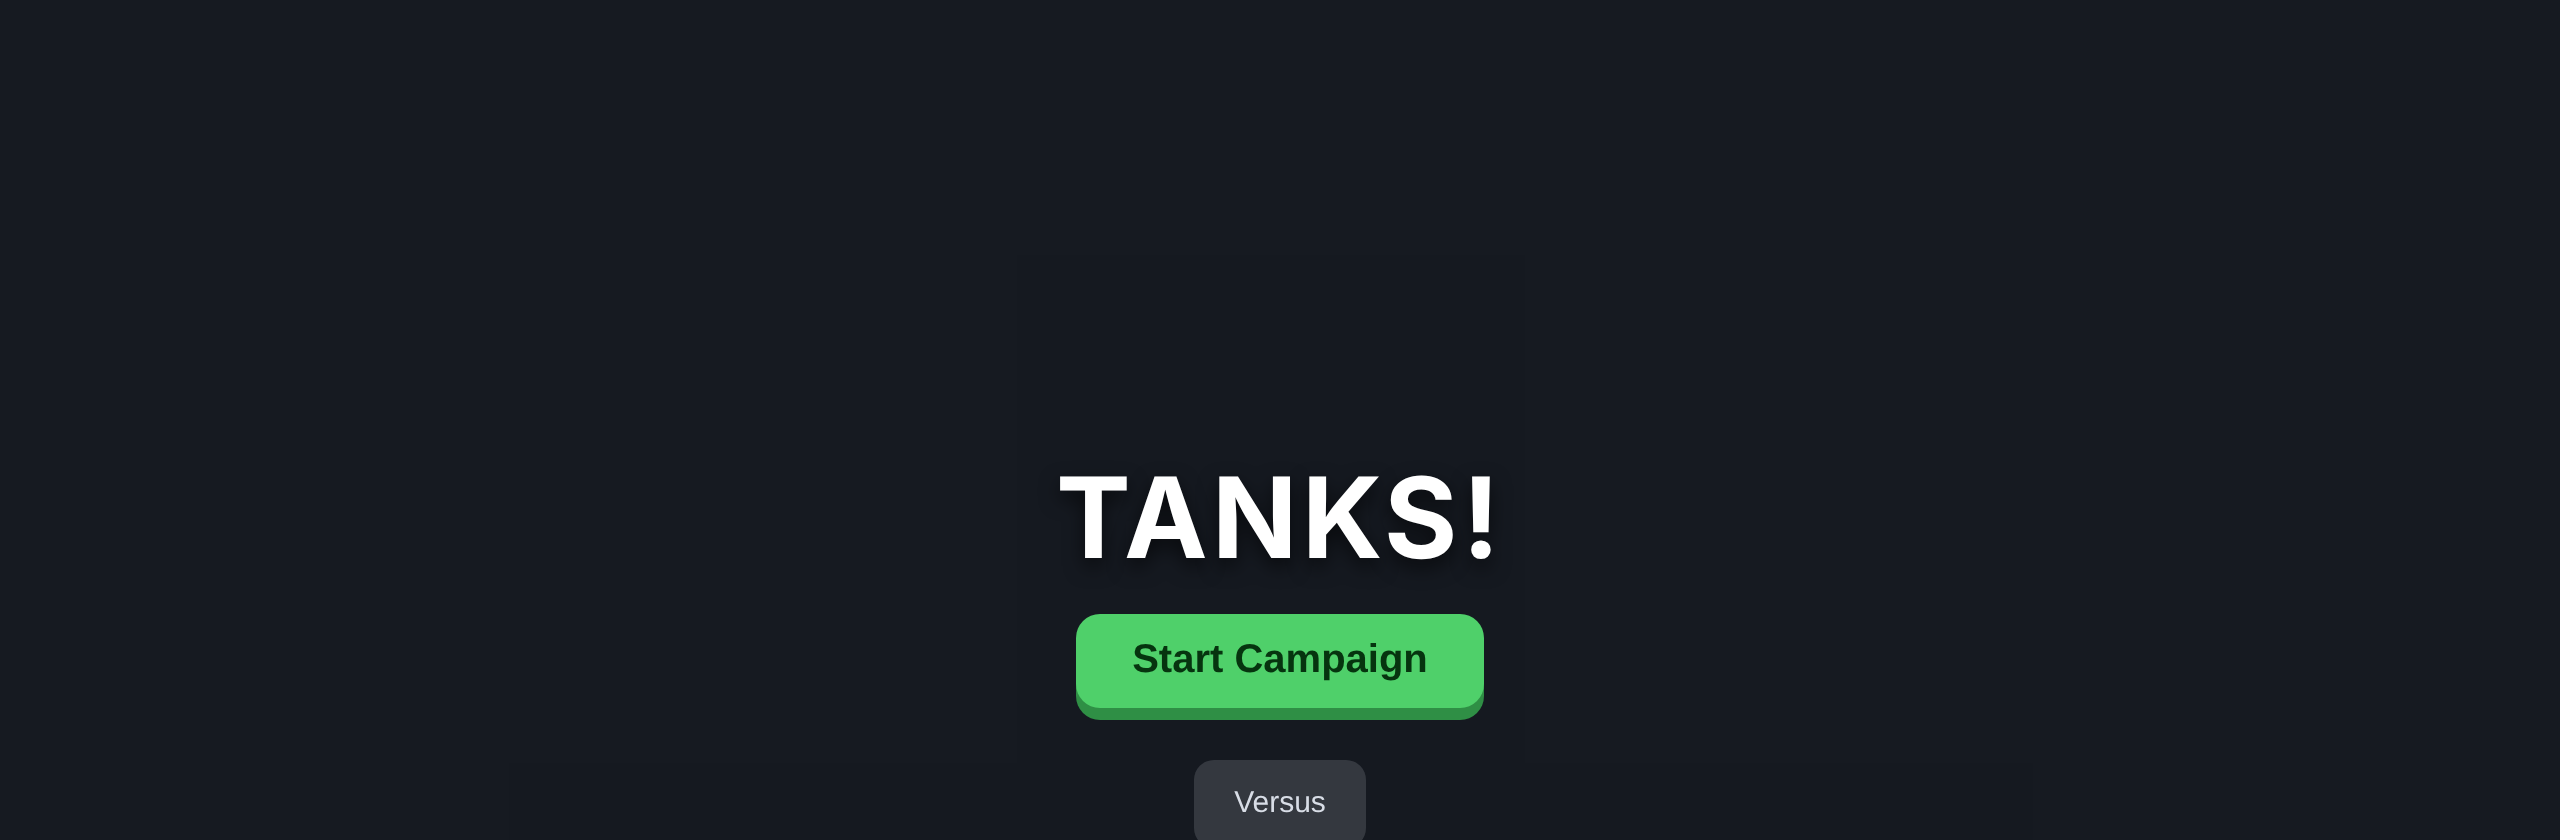
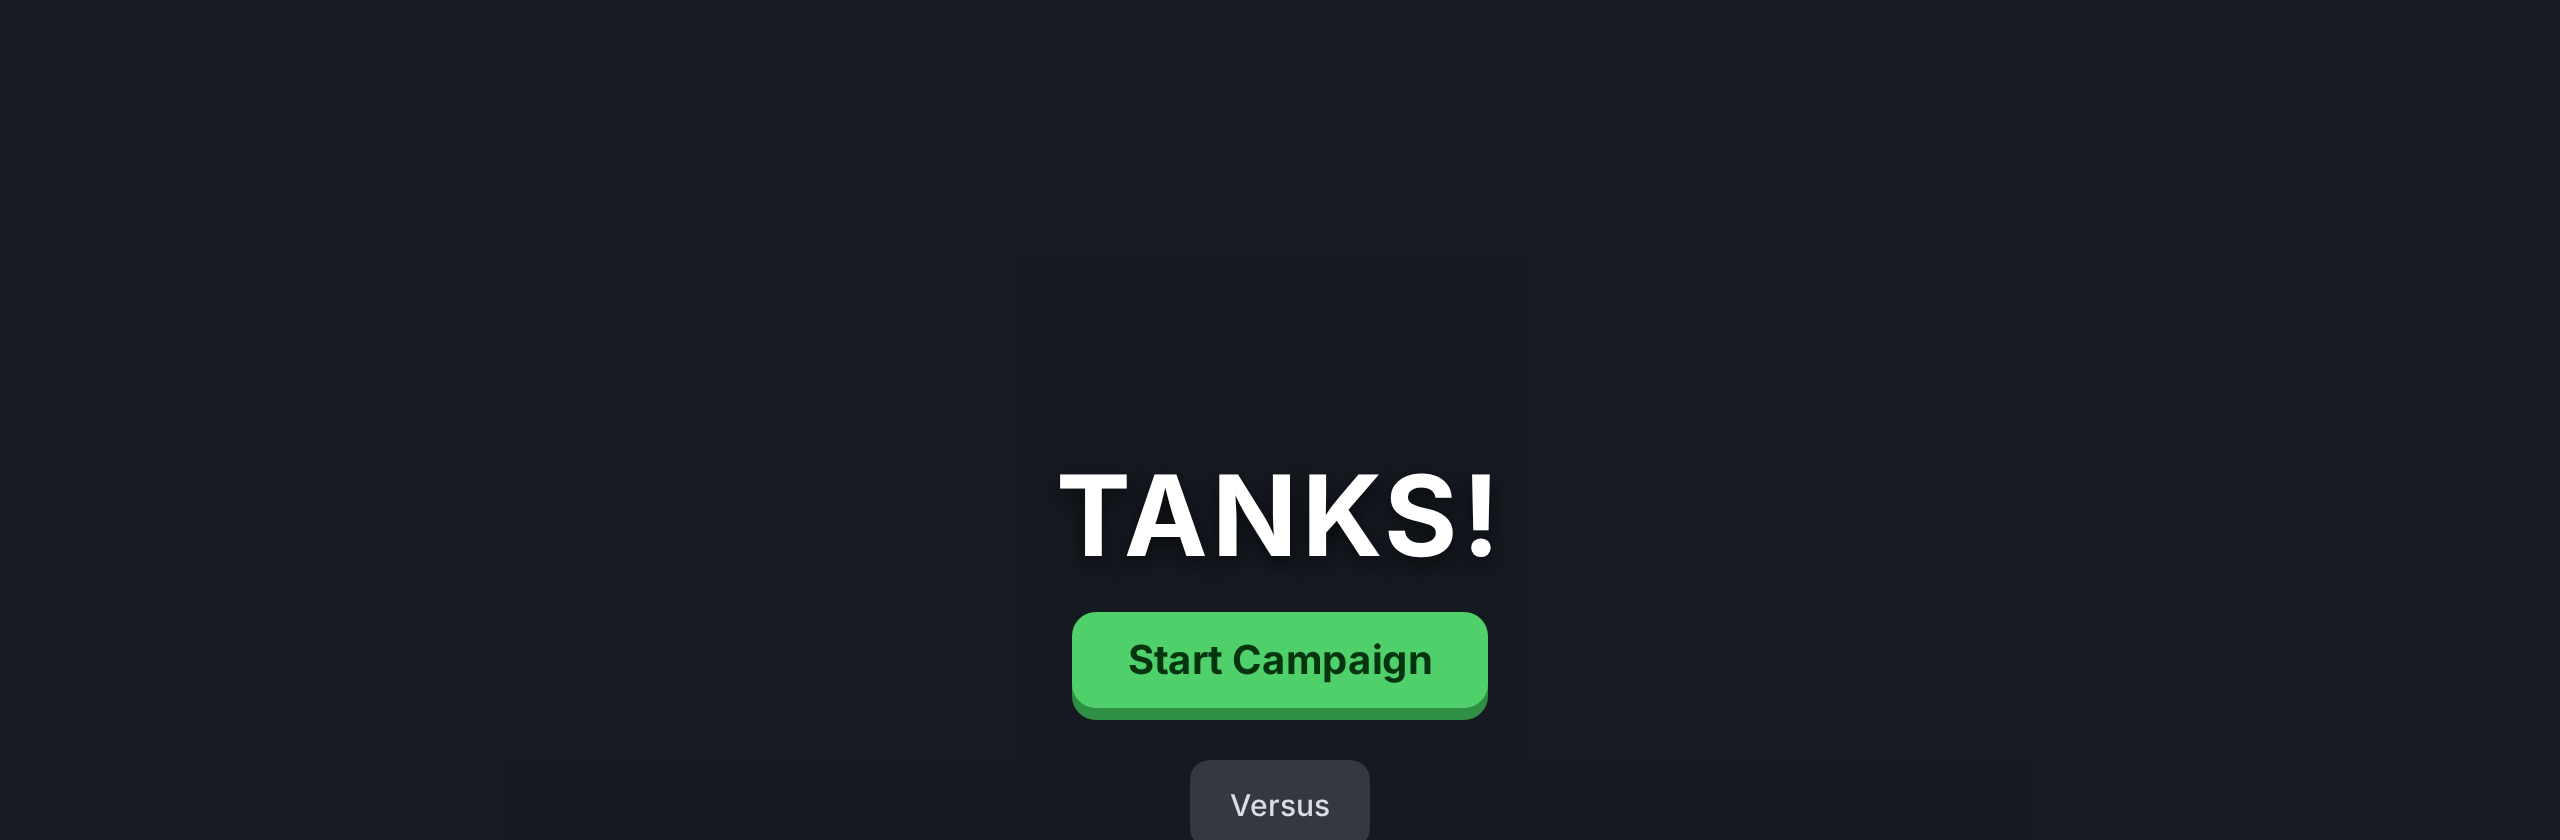
Add issue #865 HUD typeface arm evidence

diff --git a/issue-865/README.md b/issue-865/README.md
@@ -11,6 +11,11 @@ every arm.
 | `inter.png` | `hudFont=inter` | Inter |
 | `bogus.png` | `hudFont=comic` | IBM Plex Sans — an unrecognised value rejects to null |
 
+**These were retaken.** An earlier set was captured before `.ui-btn { font-family: inherit }`
+landed on `main` (the fix for 269 of 271 controls still rendering in Arial after #864). That
+change moved every one of these four captures, so the first set described a tree that no longer
+exists and was replaced rather than kept.
+
 ## The load criterion, verified in a browser rather than assumed
 
 The issue asks whether a declared-but-unselected `@font-face` is downloaded, "because it
@@ -28,11 +33,27 @@ request:
 So a shipped page downloads neither alternate. Each arm fetches its own face and not the
 other's.
 
+## The arms reach the controls too, which they would not have a day ago
+
+Read off a real visible button rather than off the rule — **all 7 visible `.ui-btn` controls
+resolve to one family, and it is the arm's**:
+
+| arm | `.ui-btn` computed family |
+| --- | --- |
+| shipped | IBM Plex Sans |
+| atkinson | Atkinson Hyperlegible |
+| inter | Inter |
+| bogus | IBM Plex Sans |
+
+Before `main` gave the control primitive `font-family: inherit`, a `<button>`'s UA `font`
+shorthand beat the inheritance and every control stayed on Arial under every arm. So judging a
+face here now includes its buttons, which is most of what a HUD is.
+
 ## Two things the captures show that a table cannot
 
 **`bogus.png` is byte-identical to `shipped.png`** — same SHA-256, not merely similar. An
 unrecognised flag value is not "close to" the shipped path; it *is* the shipped path, which is
-what reject-to-null parsing is supposed to mean.
+what reject-to-null parsing is supposed to mean. That held before the retake and after it.
 
 **`--hud-font-mono` reads `IBM Plex Mono` in all four arms.** Neither alternate ships a
 monospace companion, so only the sans moves — which also leaves every mono readout (timers,
